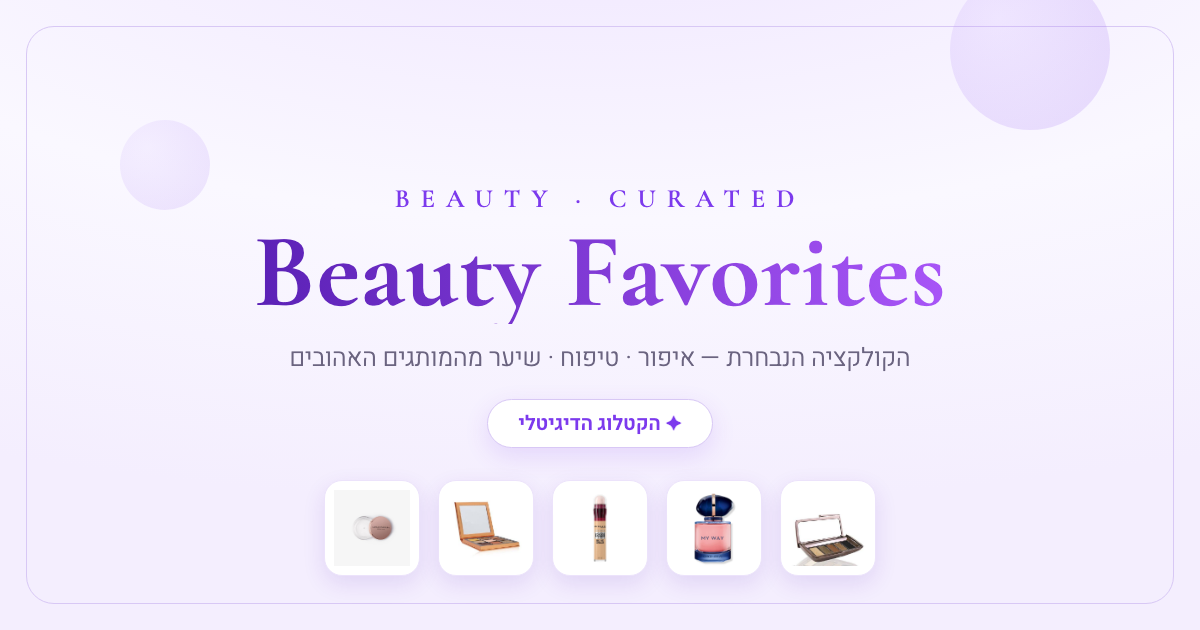
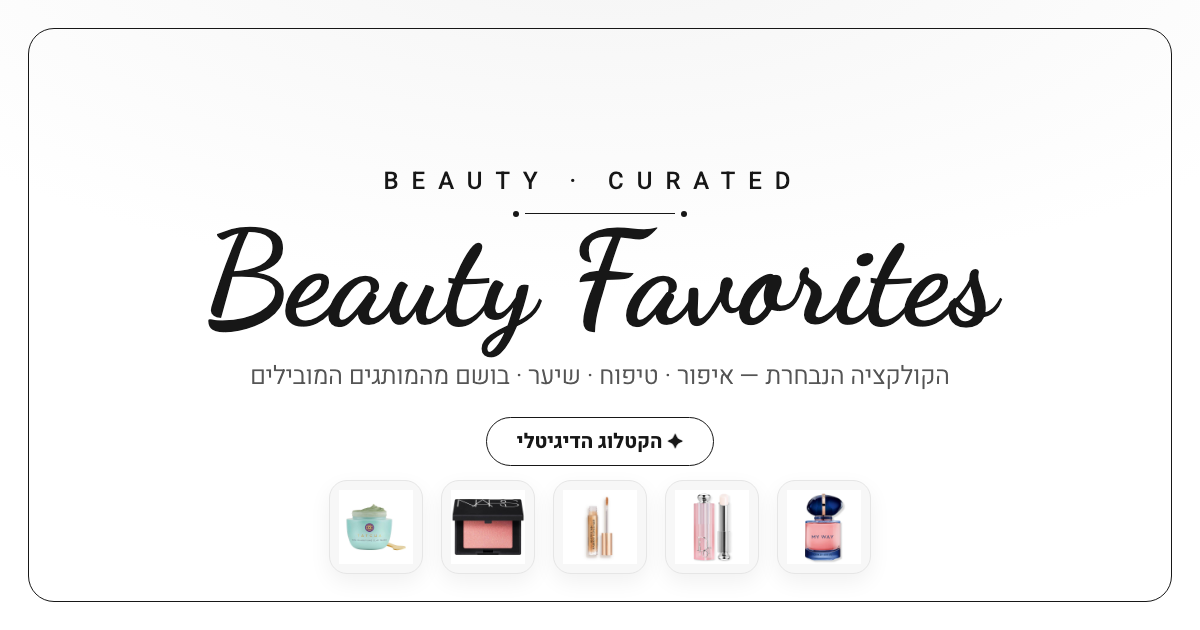
תצוגה מקדימה לקישור (og-image) בעיצוב שחור-לבן החדש + cache-buster

diff --git a/og-template.html b/og-template.html
@@ -2,42 +2,41 @@
 <html lang="he" dir="rtl">
 <head>
 <meta charset="UTF-8">
-<link href="https://fonts.googleapis.com/css2?family=Heebo:wght@300;400;600;700&family=Cormorant+Garamond:wght@500;600;700&display=swap" rel="stylesheet">
+<link href="https://fonts.googleapis.com/css2?family=Heebo:wght@300;400;500;700&family=Dancing+Script:wght@600;700&display=swap" rel="stylesheet">
 <style>
 *{margin:0;padding:0;box-sizing:border-box}
 html,body{width:1200px;height:630px;overflow:hidden;font-family:'Heebo',sans-serif}
 .card{width:1200px;height:630px;position:relative;
-  background:radial-gradient(130% 100% at 50% -20%, #efe5ff 0%, #faf8ff 55%, #f4eefe 100%);
+  background:radial-gradient(120% 100% at 50% -12%, #f4f4f4 0%, #ffffff 58%);
   display:flex;flex-direction:column;align-items:center;justify-content:center;text-align:center}
-.card::before{content:"";position:absolute;inset:26px;border:1.5px solid #d8c8f5;border-radius:28px;pointer-events:none}
-.mark{font-family:'Cormorant Garamond',serif;font-size:26px;letter-spacing:11px;color:#7c3aed;font-weight:600;text-transform:uppercase;margin-bottom:6px}
-h1{font-family:'Cormorant Garamond',serif;font-weight:700;font-size:104px;line-height:1;letter-spacing:1px;
-  background:linear-gradient(90deg,#5b21b6,#a855f7);-webkit-background-clip:text;background-clip:text;color:transparent}
-.tag{font-size:25px;color:#6b6480;font-weight:300;margin-top:16px}
-.badge{margin-top:22px;display:inline-block;font-size:20px;font-weight:600;color:#7c3aed;
-  background:#fff;border:1.5px solid #d8c8f5;border-radius:40px;padding:9px 30px;box-shadow:0 8px 24px rgba(124,58,237,.14)}
-.strip{position:absolute;bottom:54px;left:0;right:0;display:flex;gap:18px;justify-content:center}
-.thumb{width:96px;height:96px;border-radius:18px;background:#fff;border:1px solid #ece3fb;
-  box-shadow:0 8px 22px rgba(91,33,182,.12);display:flex;align-items:center;justify-content:center;padding:9px}
-.thumb img{max-width:100%;max-height:100%;object-fit:contain;mix-blend-mode:multiply}
-.dot{position:absolute;border-radius:50%;background:radial-gradient(circle at 30% 30%,#c9a8ff,#7c3aed);opacity:.16}
-.d1{width:160px;height:160px;top:-30px;right:90px}
-.d2{width:90px;height:90px;top:120px;left:120px;opacity:.12}
+.card::before{content:"";position:absolute;inset:28px;border:1.5px solid #171717;border-radius:26px;pointer-events:none}
+.mark{font-family:'Heebo',sans-serif;font-size:24px;letter-spacing:13px;color:#171717;font-weight:500;text-transform:uppercase;margin-bottom:2px;padding-inline-start:13px}
+.rule{width:150px;height:1.6px;background:#171717;margin:12px auto 4px;position:relative}
+.rule::before,.rule::after{content:"";position:absolute;top:-2px;width:6px;height:6px;border-radius:50%;background:#171717}
+.rule::before{left:-12px}.rule::after{right:-12px}
+h1{font-family:'Dancing Script',cursive;font-weight:700;font-size:130px;line-height:1;color:#171717;margin-top:-4px}
+.tag{font-size:25px;color:#555;font-weight:300;margin-top:14px}
+.badge{margin-top:22px;display:inline-block;font-size:20px;font-weight:600;color:#171717;
+  background:#fff;border:1.5px solid #171717;border-radius:40px;padding:9px 30px}
+.strip{position:absolute;bottom:56px;left:0;right:0;display:flex;gap:18px;justify-content:center}
+.thumb{width:94px;height:94px;border-radius:18px;background:#f7f7f7;border:1px solid #e6e6e6;
+  box-shadow:0 8px 22px rgba(0,0,0,.06);display:flex;align-items:center;justify-content:center;padding:9px}
+.thumb img{max-width:100%;max-height:100%;object-fit:contain}
 </style>
 </head>
 <body>
 <div class="card">
-  <div class="dot d1"></div><div class="dot d2"></div>
-  <div class="mark">Beauty · Curated</div>
+  <div class="mark">Beauty &middot; Curated</div>
+  <div class="rule"></div>
   <h1>Beauty Favorites</h1>
-  <div class="tag">הקולקציה הנבחרת — איפור · טיפוח · שיער מהמותגים האהובים</div>
+  <div class="tag">הקולקציה הנבחרת — איפור · טיפוח · שיער · בושם מהמותגים המובילים</div>
   <div class="badge">✦ הקטלוג הדיגיטלי</div>
   <div class="strip">
-    <div class="thumb"><img src="images/1001-hourglass-graphik-eyeshadow-palette-vista/01.jpg"></div>
     <div class="thumb"><img src="images/101-armani-my-way-intense/01.jpg"></div>
-    <div class="thumb"><img src="images/02-maybelline-age-rewind-120/01.jpg"></div>
-    <div class="thumb"><img src="images/1731-huda-beauty-topaz-obsessions-eyeshadow-palette/01.jpg"></div>
-    <div class="thumb"><img src="images/26-brow-freeze-styling-wax/01.jpg"></div>
+    <div class="thumb"><img src="images/239-dior-lip-glow-000-clear/01.jpg"></div>
+    <div class="thumb"><img src="images/152-charlotte-tilbury-concealer-mix/01.jpg"></div>
+    <div class="thumb"><img src="images/1381-nars-blush-orgasm-0-17-oz/01.jpg"></div>
+    <div class="thumb"><img src="images/1656-tatcha-the-clarifying-clay-mask-exfoliating-po/01.jpg"></div>
   </div>
 </div>
 </body>

diff --git a/build_catalog.py b/build_catalog.py
@@ -427,7 +427,7 @@ def main():
             else:
                 barcode_seen[bc] = v["id"]
 
-    og_image = (SITE_URL.rstrip("/") + "/og-image.png") if SITE_URL else "og-image.png"
+    og_image = (SITE_URL.rstrip("/") + "/og-image.png?v=bw2") if SITE_URL else "og-image.png?v=bw2"
 
     # ---- חיבור Supabase: מוזרק לדף כ-window.SUPA. ריק → הקטלוג עובד במצב וואטסאפ-טקסט בלבד ----
     supa_cfg = {"url": "", "anon": ""}